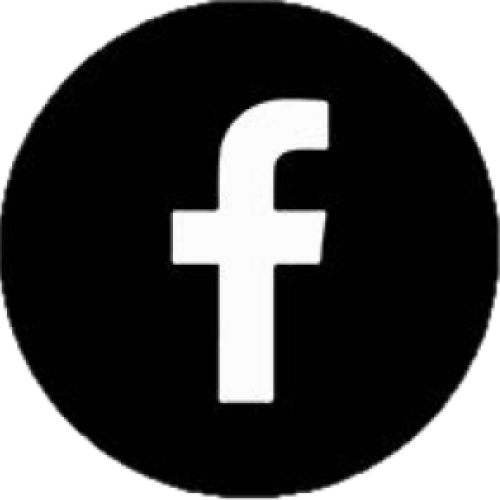
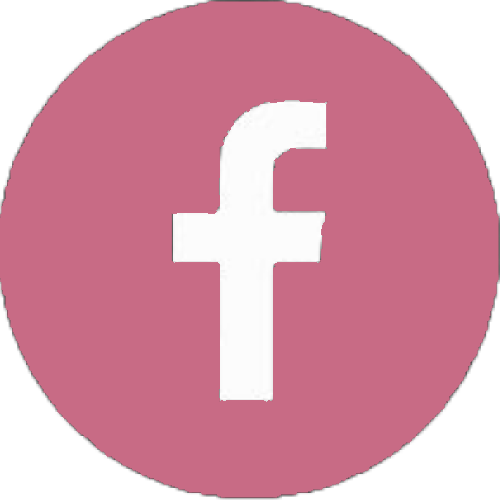
Cambio de los contrastes de colores y el contenido del footer.

diff --git a/index.html b/index.html
@@ -154,28 +154,34 @@
             </div>
         </section>
         <footer class="footer">
-            <section class="contact" id="contacto">
-                <div class="contact__text">
-                    <h3>¿Queres ver las novedades?</h3>
-                    <p>Seguinos en las redes!</p> <br />
+            <div class="footer__container">
+                <section class="contact" id="contacto">
+                    <div class="contact__text">
+                        <h2>¿Queres ver las novedades?</h2>
+                        <p>Seguinos en las redes!</p> <br />
+                    </div>
+                    <div class="contact__logos">
+                        <a class="contact__logo--container" href="https://www.facebook.com/GranAltillo" >
+                            <figure class="contact__logos--figure" >
+                                <img src="images/facebook.png" alt="Logo facebook">
+                            </figure> 
+                        </a>
+                        <a class="contact__logo--container" href="https://www.instagram.com/gran_altillo/" >                   
+                            <figure class="contact__logos--figure">
+                                <img src="images/instagram.png" alt="Logo instagram">
+                            </figure>
+                        </a>
+                    </div>
+                </section>
+                <div class="footer__information">
+                    <p> GRAN ALTILLO <br/> Muebles Antiguos </p>
+                    <p> TELEFNO: <br/> +54 0376 4739472 </p>
+                    <p> DIRECCIÓN: <br/> Av. Centenario 6075. <br/> Posadas - Misiones - Argentina </p>
                 </div>
-                <div class="contact__logos">
-                    <a class="contact__logo--container" href="https://www.facebook.com/GranAltillo" >
-                        <figure class="contact__logos--figure" >
-                            <img src="images/facebook.png" alt="Logo facebook">
-                        </figure> 
-                    </a>
-                    <a class="contact__logo--container" href="https://www.instagram.com/gran_altillo/" >                   
-                        <figure class="contact__logos--figure">
-                            <img src="images/instagram.png" alt="Logo instagram">
-                        </figure>
-                    </a>
-                </div>
-            </section>
-            <div class="footer__information">
-                <p> Gran Altillo - Muebles Antiguos </p> <br />
-                <p> Posadas - Misiones - Argentina </p>
             </div>
         </footer>
+        <div class="design__container">
+            <p> Diseñado por: <strong>Alejandro, Schwartz</strong> <br /> Cel: +54 0351 3022392 <br /> Córdoba - Argentina </p>
+        </div>
     </body>
 </html>

diff --git a/styles.css b/styles.css
@@ -12,7 +12,7 @@ body {
     color: white;
     display: flex;
     justify-content: center;
-    background: #e19999;
+    background: #c86b85;
 }
 
 .header__title {
@@ -20,15 +20,22 @@ body {
     padding: 0;
 }
 
+.navegator {
+    background: #e6a4b4;
+    display: flex;
+    flex-direction: row;
+    justify-content: space-around;
+}
+
 .navegator__uniqueList {
     margin: 0px;
     padding: 0px;
+    width: 80%;
     height: 50px;
     display: flex;
     flex-direction: row;
     justify-content: space-around;
     list-style: none;
-    background: #f5a8a8;
 }
 
 .navegator__uniqueList--boton {
@@ -72,8 +79,15 @@ body {
 }
 
 .section__name h2 {
+    width: 100%;
     margin-top: 40px;
-    margin-left: 10%;
+    /* margin-left: 10%; */
+    display: flex;
+    justify-content: center;
+    font-size: 28px;
+    font-weight: 700;
+    font-family: Arial, Helvetica, sans-serif;
+    color: #c86b85;
 }
 
 .section__div {
@@ -161,11 +175,19 @@ body {
 .footer {
     margin: 0px;
     /* height: 120px; */
-    background: #e19999;
+    background: #e6a4b4;
     color: white;
     display: flex;
     flex-direction: column;
+    align-items: center;
     justify-content: center;
+}
+
+.footer__container {
+    padding: 80px 0px;
+    width: 90%;
+    display: flex;
+    justify-content: space-around;
 }
 
 .footer p {
@@ -179,7 +201,7 @@ body {
 
 .contact {
     font-size: 24px;
-    background: #f5a8a8;
+    background: #e6a4b4;
     display: flex;
     flex-direction: column;
     align-items: center;
@@ -212,6 +234,7 @@ body {
     max-width: 1200px;
     display: flex;
     justify-content: center;
+    margin: 60px 0px;
 }
 
 .contact__logo--container {
@@ -236,13 +259,34 @@ body {
 }
 
 .footer__information {
-    background: #e19999;
+    /* background: #c86b85; */
+    display: flex;
+    flex-direction: column;
+    justify-content: space-around;
 }
 
 .footer__information p {
     margin: 12px;
+    padding-bottom: 50px;
+    text-align: center;
     font-family: Arial, Helvetica, sans-serif;
-    font-size: 18px;
+    font-size: 24px;
     font-weight: 700;
 }
 
+.design__container {
+    padding: 16px;
+    background: #c86b85;
+    display: flex;
+    justify-content: center;
+    align-items: center;
+}
+
+.design__container p {
+    margin: 0;
+    text-align: center;
+    font-family: Arial, Helvetica, sans-serif;
+    font-size: 18px;
+    font-weight: 700;
+    color: white;
+}
